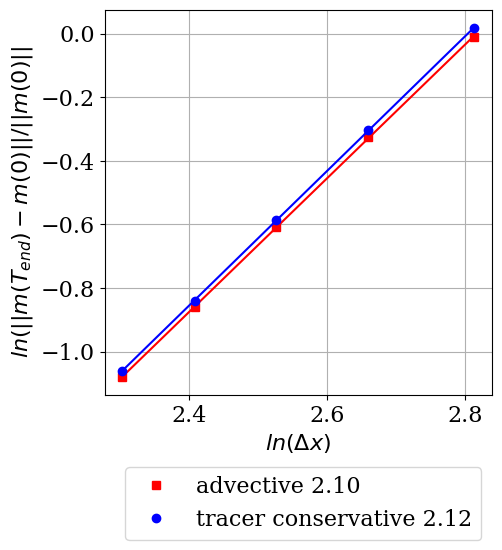
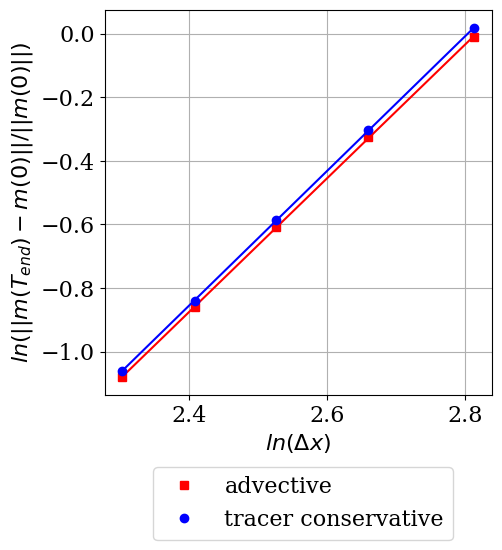
update NL slice order 1 results

diff --git a/paper_test_suite/NL_slice/plot_NL_slice_comparison.py b/paper_test_suite/NL_slice/plot_NL_slice_comparison.py
@@ -9,8 +9,9 @@ from tomplot import (set_tomplot_style, plot_convergence,
                      only_minmax_ticklabels, tomplot_legend_ax,
                      tomplot_legend_fig)
 import numpy as np
+from matplotlib.ticker import ScalarFormatter
 
-order = 1
+order = 0
 configuration = 'convergence'
 quantity = 'tracer_density' # tracer_density or m_X
 
@@ -36,7 +37,11 @@ conservative = []
 advective = []
 
 # Spatial refinements
-dxzs = [120, 140, 160, 180, 200]# [100, 140, 160, 180]
+if order == 1:
+    dxzs = [60, 70, 80, 90, 100]
+else:
+    dxzs = [120, 140, 160, 180, 200]
+
 dx_values = []
 
 for dxz in dxzs:
@@ -100,13 +105,13 @@ print(all_error_data)
 
 if quantity == 'tracer_density':
     log_by = 'axes'
-    log_base=10
-    ylabel = r"$(T_d(T_{end}) - T_d(0)/T_d(0))$"
+    log_base = 10
+    ylabel = r"$T_d(T_{end}) - T_d(0)/T_d(0)$"
     xlabel = r"$\Delta x$"
 else:
     log_by='data'
     log_base='e'
-    ylabel = "$ln(||m(T_{end}) - m(0)||/||m(0)||$"
+    ylabel = "$ln(||m(T_{end}) - m(0)||/||m(0)||)$"
     xlabel = r"$ln(\Delta x)$"
 
 set_tomplot_style()
@@ -115,11 +120,25 @@ for error_data, colour, marker, label in \
         zip(all_error_data, colours, markers, labels):
     plot_convergence(ax, dx_values, error_data, label=label,
                      color=colour, marker=marker, log_by=log_by,
-                     log_base=log_base)
+                     log_base=log_base, gradient_in_label=False)
                      
 ax.set_xlabel(xlabel)
 ax.set_ylabel(ylabel)
 
+if order == 1:  
+    if quantity == 'tracer_density':
+        ax.set_xlim([19,35])
+        ax.set_ylim([1e-14,1e-4])
+        plt.gca().xaxis.set_minor_formatter(ScalarFormatter())
+else:  
+    if quantity == 'tracer_density':
+        ax.set_xlim([9.5, 17])
+        ax.set_ylim([1e-13,1e-5])
+        plt.gca().xaxis.set_minor_formatter(ScalarFormatter())
+        plt.gca().xaxis.set_major_formatter(ScalarFormatter())
+        plt.xticks([])
+        #print(plt.xticks([10,12,14,16]))
+        
 tomplot_legend_ax(ax, location='bottom')
 
 plt.grid()
